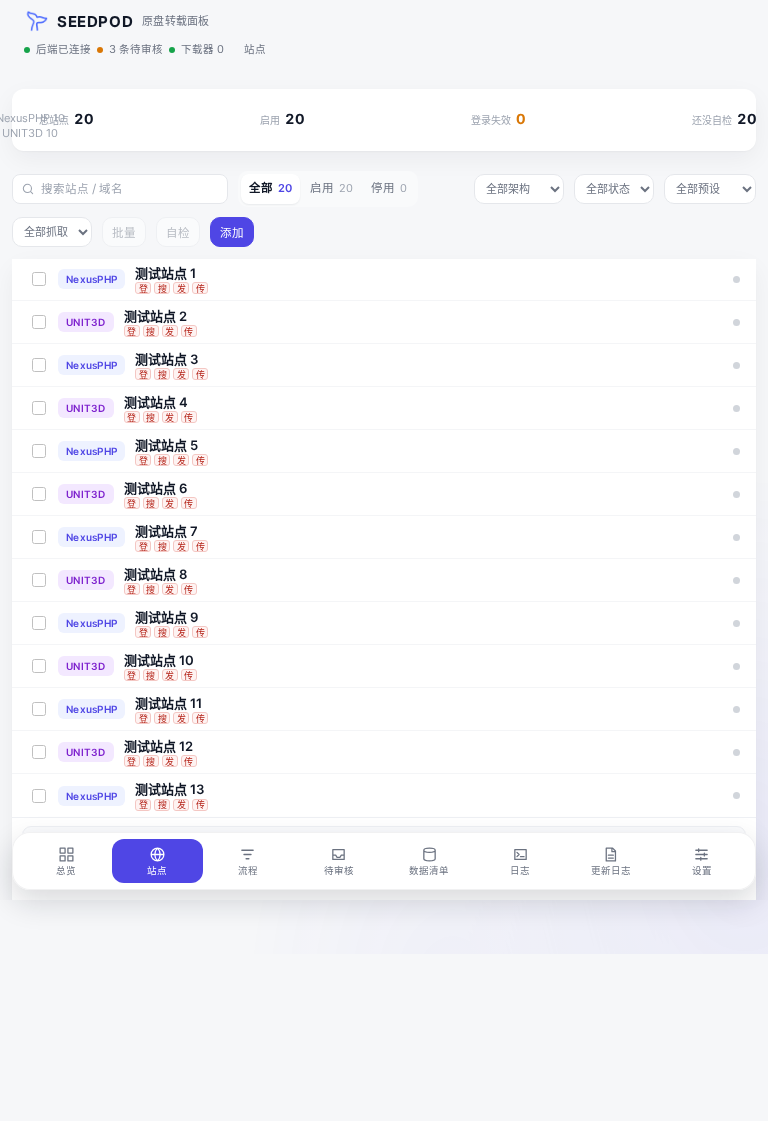
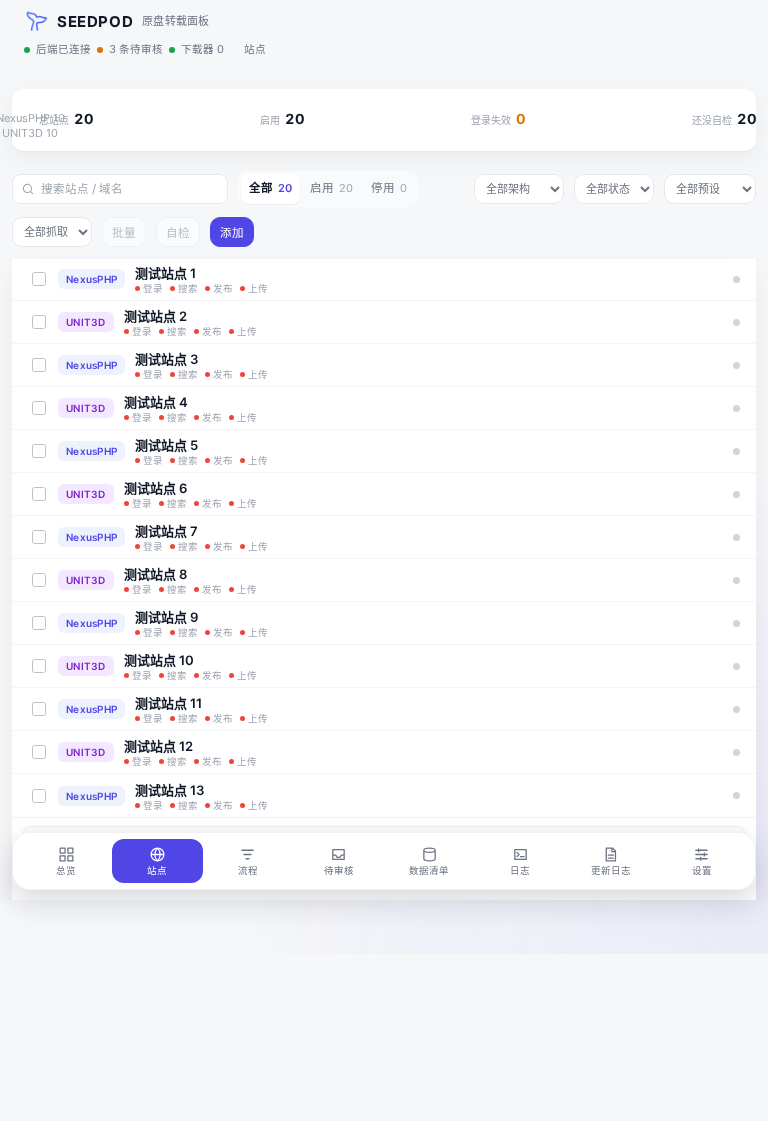
0.7.697 就绪度改为圆点加文字

Changed region(s): [[0.1562, 0.562, 0.2812, 0.7493], [0.1562, 0.4059, 0.2812, 0.5308], [0.1562, 0.2498, 0.2812, 0.3747]]

diff --git a/pta/web/src/components/SitesList.vue b/pta/web/src/components/SitesList.vue
@@ -61,10 +61,10 @@ function presetTxt(s) {
 function lastCrawlTxt(s) { return s.lastAt ? fmtWhen(s.lastAt) : '未抓取' }
 function readyChips(r) {
   return [
-    { short: '登', state: r.cookie.state, label: r.cookie.label },
-    { short: '搜', state: r.search.state, label: r.search.label },
-    { short: '发', state: r.publish.state, label: r.publish.label },
-    { short: '传', state: r.upload.state, label: r.upload.label }
+    { short: '登录', state: r.cookie.state, label: r.cookie.label },
+    { short: '搜索', state: r.search.state, label: r.search.label },
+    { short: '发布', state: r.publish.state, label: r.publish.label },
+    { short: '上传', state: r.upload.state, label: r.upload.label }
   ]
 }
 function go(n) {
@@ -123,13 +123,13 @@ function go(n) {
 .si-txt b { display: block; font-size: 12px; font-weight: 600; color: var(--ink);
   white-space: nowrap; overflow: hidden; text-overflow: ellipsis; }
 .si-txt span { display: block; font-size: 10.5px; color: var(--muted-2); }
-.si-txt > .si-ready { display: flex; gap: 3px; margin-top: 1px; line-height: 1; }
-.si-ready .rd { display: inline-flex; align-items: center; justify-content: center; width: 16px; height: 12px;
-  font-style: normal; font-size: 9px; line-height: 1; border-radius: 3px; border: 1px solid var(--line);
-  background: #fafbfd; color: var(--muted-2); }
-.si-ready .rd.ok { color: #087443; background: #ecfdf3; border-color: #c6efd9; }
-.si-ready .rd.warn { color: #9a6700; background: #fffaeb; border-color: #f2dfae; }
-.si-ready .rd.bad, .si-ready .rd.missing { color: #b42318; background: #fef3f2; border-color: #f4c7c3; }
+.si-txt > .si-ready { display: flex; gap: 7px; margin-top: 2px; line-height: 1; }
+.si-ready .rd { display: inline-flex; align-items: center; gap: 3px; font-style: normal; font-size: 9.5px;
+  line-height: 1; color: var(--muted-2); white-space: nowrap; }
+.si-ready .rd::before { content: ''; width: 5px; height: 5px; border-radius: 50%; background: #c9cedb; }
+.si-ready .rd.ok::before { background: #12b76a; }
+.si-ready .rd.warn::before { background: #f79009; }
+.si-ready .rd.bad::before, .si-ready .rd.missing::before { background: #f04438; }
 .si-arch .chip { font-size: 10px; }
 .si-login { font-size: 11.5px; color: var(--muted); }
 .si-login.ok { color: var(--green); }

diff --git a/HANDOFF.md b/HANDOFF.md
@@ -1,6 +1,12 @@
 # HANDOFF · SEEDPOD 面板
 
-最后更新：2026-11-26 01:20（当前 v0.7.696 / 站点就绪度；开发清单见 `pta/docs/ROADMAP.md` 顶部）
+最后更新：2026-11-26 01:45（当前 v0.7.697 / 就绪度视觉；开发清单见 `pta/docs/ROADMAP.md` 顶部）
+
+## 2026-11-26 就绪度视觉（v0.7.697）
+
+- 就绪度从四个彩色方框改成“圆点 + 文字”，只给圆点着色，降低列表噪声。
+- 状态口径不变：绿=就绪、黄=待验证、红=缺项。
+- 全量 `run.sh` 通过；已部署，GitHub 同步。
 
 ## 2026-11-26 站点就绪度（v0.7.696）
 

diff --git a/CHANGELOG.md b/CHANGELOG.md
@@ -1,5 +1,12 @@
 # 更新日志
 
+## v0.7.697 · 2026-11-26
+
+### 就绪度视觉
+- 四个小标从彩色方框改成“圆点 + 文字”（登录 / 搜索 / 发布 / 上传），只给圆点着色。
+- 文字保持灰色，减少列表噪声；状态不变，仍是绿=就绪、黄=待验证、红=缺项。
+- 全量 `run.sh` 通过。
+
 ## v0.7.696 · 2026-11-26
 
 ### 站点就绪度
